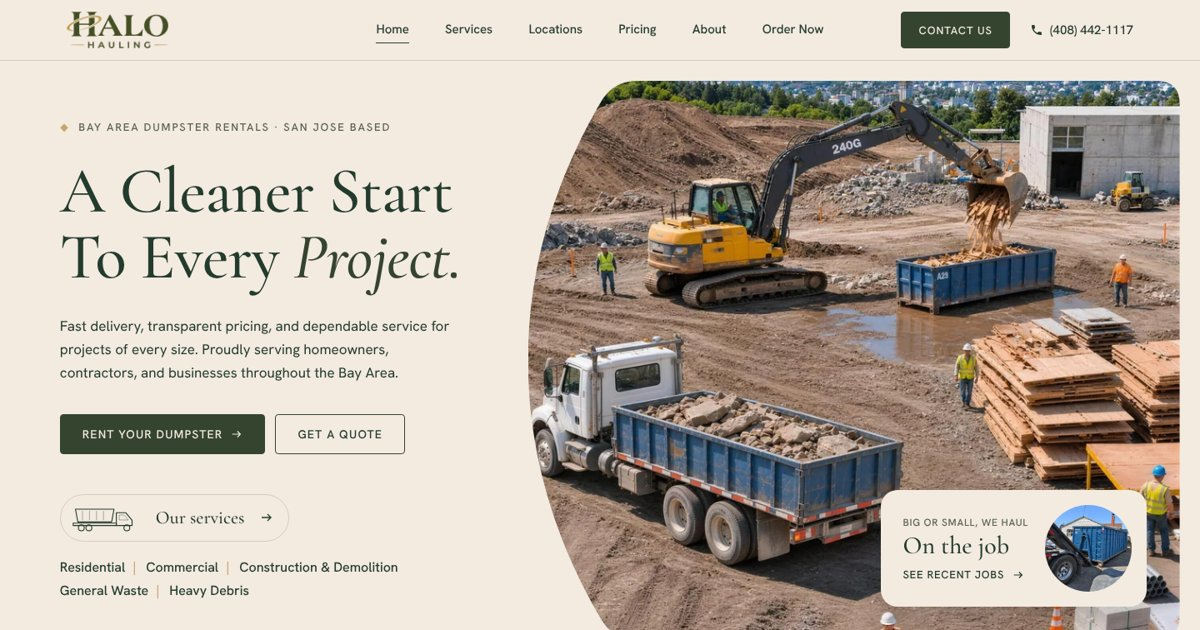
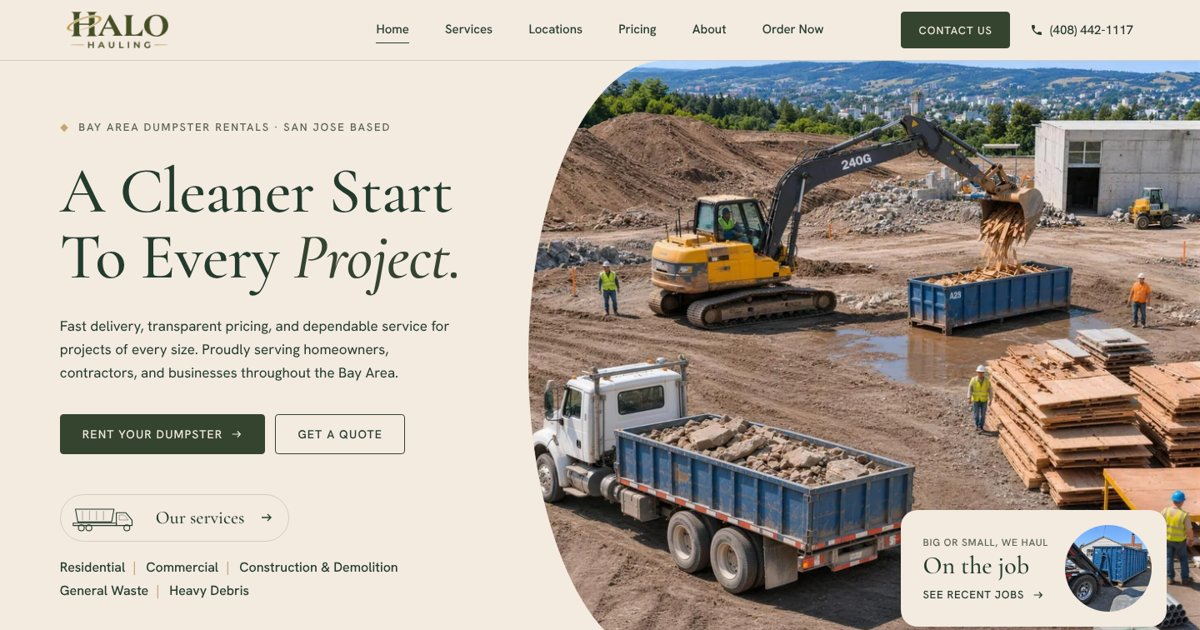
Landing page: restore full-width hero photo with a smooth half-oval left edge
Claude-Session: https://claude.ai/code/session_01D1zbuP5dsXHYhoAWNQLH19

diff --git a/index.html b/index.html
@@ -117,11 +117,9 @@ section { padding-block: clamp(80px, 11vw, 160px); }
 .hero__cats li::before { content: "|"; position: absolute; left: 9px; color: var(--gold); }
 .hero__media { position: relative; min-height: 420px; overflow: hidden; }
 .hero__media picture, .hero__media > picture img { position: absolute; inset: 0; width: 100%; height: 100%; }
-.hero__media > picture img { object-fit: cover; object-position: 20% 45%; }
+.hero__media > picture img { object-fit: cover; object-position: 50% 35%; }
 @media (min-width: 1024px) {
-  .hero__media { margin: 24px 24px 24px 0; border-radius: 0 28px 28px 0; }
-  .hero__media > picture { clip-path: ellipse(140% 118% at 140% 50%); }
-  .hero__media.is-shaped { border-radius: 0; }
+  .hero__media { border-radius: 20% 0 0 20% / 50% 0 0 50%; }
 }
 .hero__card { position: absolute; right: clamp(16px, 3vw, 40px); bottom: clamp(16px, 3vw, 40px); display: flex; align-items: center; gap: 20px; padding: 18px 18px 18px 26px; background: var(--cream); border-radius: 20px; text-decoration: none; box-shadow: 0 10px 30px rgba(20, 30, 22, .18); transition: transform .3s var(--ease); }
 .hero__card:hover { transform: translateY(-3px); }
@@ -764,37 +762,6 @@ section { padding-block: clamp(80px, 11vw, 160px); }
     p.setAttribute('aria-label', on ? 'Play the moving text' : 'Pause the moving text');
     p.innerHTML = on ? icons.play : icons.pause;
   });
-
-
-  // hero photo: the curved left edge with every corner rounded, rebuilt to the photo's size
-  const media = document.querySelector('.hero__media'), pic = media && media.querySelector('picture');
-  const shape = () => {
-    if (!pic) return;
-    if (!matchMedia('(min-width: 1024px)').matches) { pic.style.clipPath = ''; media.classList.remove('is-shaped'); return; }
-    const W = pic.offsetWidth, H = pic.offsetHeight, R = 28;
-    const cx = 1.4 * W, rx = 1.4 * W, ry = 1.18 * H, cy = H / 2;
-    const xAt = y => cx - rx * Math.sqrt(Math.max(0, 1 - ((y - cy) / ry) ** 2));
-    const pts = []; const corners = [];
-    const N = 80;
-    for (let i = 0; i <= N; i++) { const y = H - (H * i) / N; pts.push([xAt(y), y]); }
-    corners.push(N); // top end of the curve
-    pts.push([W, 0]); corners.push(pts.length - 1);
-    pts.push([W, H]); corners.push(pts.length - 1);
-    corners.push(0); // bottom end of the curve
-    const walk = (idx, dir, d) => { let i = idx, left = d;
-      while (true) { const j = (i + dir + pts.length) % pts.length; const [ax, ay] = pts[i], [bx, by] = pts[j]; const seg = Math.hypot(bx - ax, by - ay);
-        if (seg >= left) { const t = left / seg; return { p: [ax + (bx - ax) * t, ay + (by - ay) * t], i }; } left -= seg; i = j; } };
-    const repl = new Map();
-    for (const c of corners) { const A = walk(c, -1, R), B = walk(c, 1, R), C = pts[c], arc = [];
-      for (let k = 0; k <= 10; k++) { const t = k / 10, u = 1 - t; arc.push([u * u * A.p[0] + 2 * u * t * C[0] + t * t * B.p[0], u * u * A.p[1] + 2 * u * t * C[1] + t * t * B.p[1]]); }
-      repl.set(c, { from: A.i, to: B.i, arc }); }
-    const out = []; const skip = new Set();
-    for (const [c, r] of repl) { let i = (r.from + 1) % pts.length; while (i !== (r.to + 1) % pts.length) { skip.add(i); i = (i + 1) % pts.length; } }
-    for (let i = 0; i < pts.length; i++) { for (const [c, r] of repl) if (i === (r.from + 1) % pts.length) out.push(...r.arc); if (!skip.has(i)) out.push(pts[i]); }
-    pic.style.clipPath = 'polygon(' + out.map(([x, y]) => x.toFixed(1) + 'px ' + y.toFixed(1) + 'px').join(',') + ')';
-    media.classList.add('is-shaped');
-  };
-  shape(); addEventListener('resize', shape); addEventListener('load', shape);
 
   const sz = document.querySelector('[data-sizer]');
   if (sz) {
